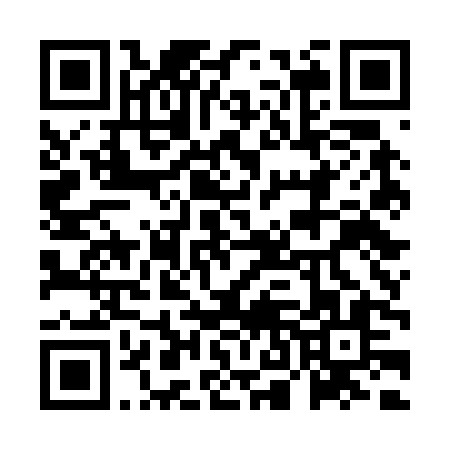
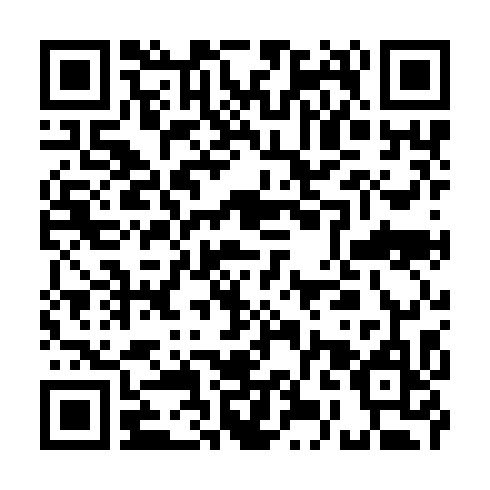
Use UPI-compatible QR for popular payment apps

diff --git a/donation.html b/donation.html
@@ -74,7 +74,7 @@
               <span class="label">UPI ID</span>
               <strong>htjnvk@okaxis</strong>
             </div>
-            <p class="donation-note">Scan the QR code or use the UPI ID above to donate for education, care, dignity, and hope.</p>
+            <p class="donation-note">Scan this QR code with any UPI app such as Google Pay, PhonePe, Paytm, or WhatsApp Pay.</p>
           </div>
         </div>
       </section>
